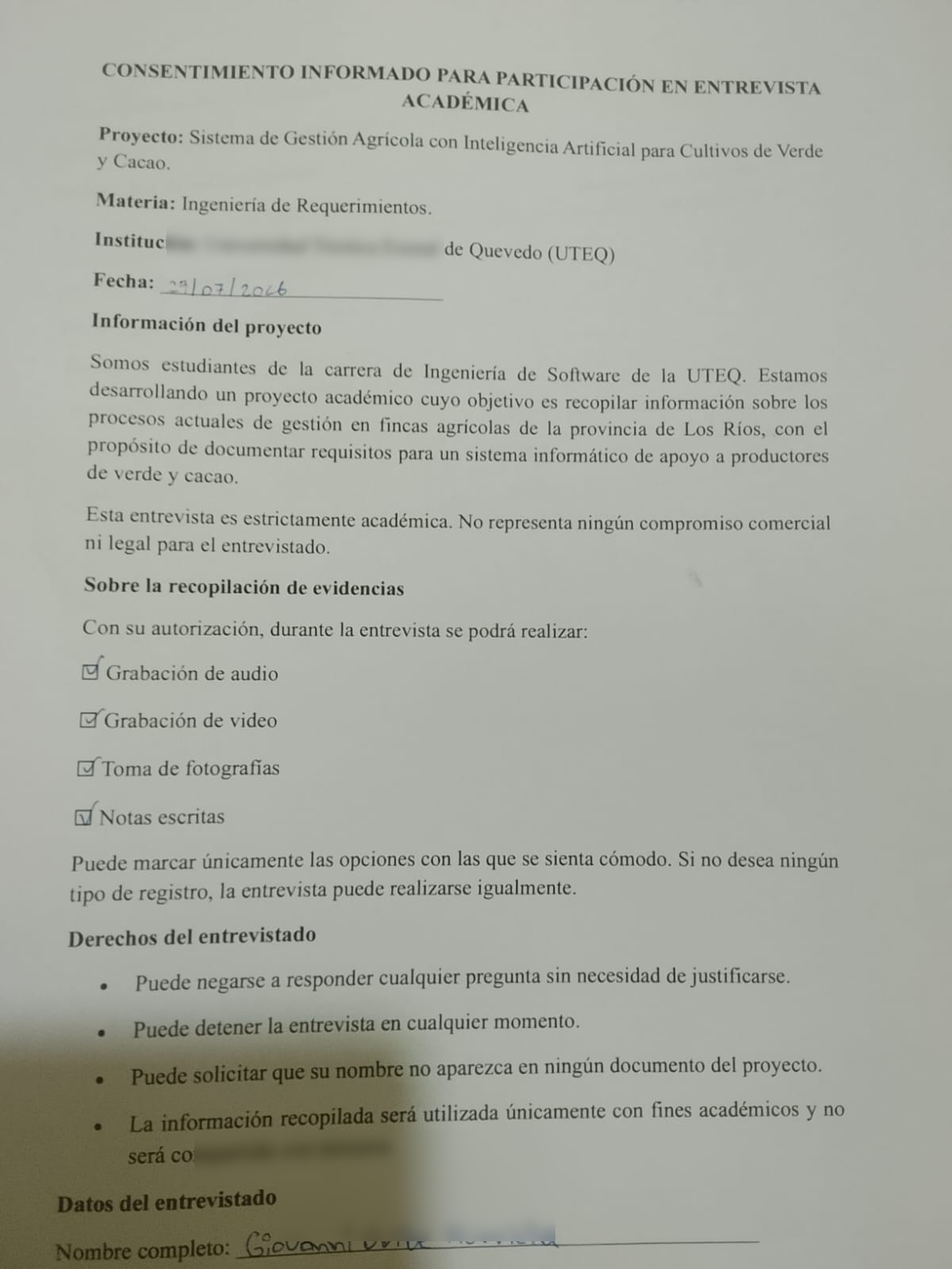
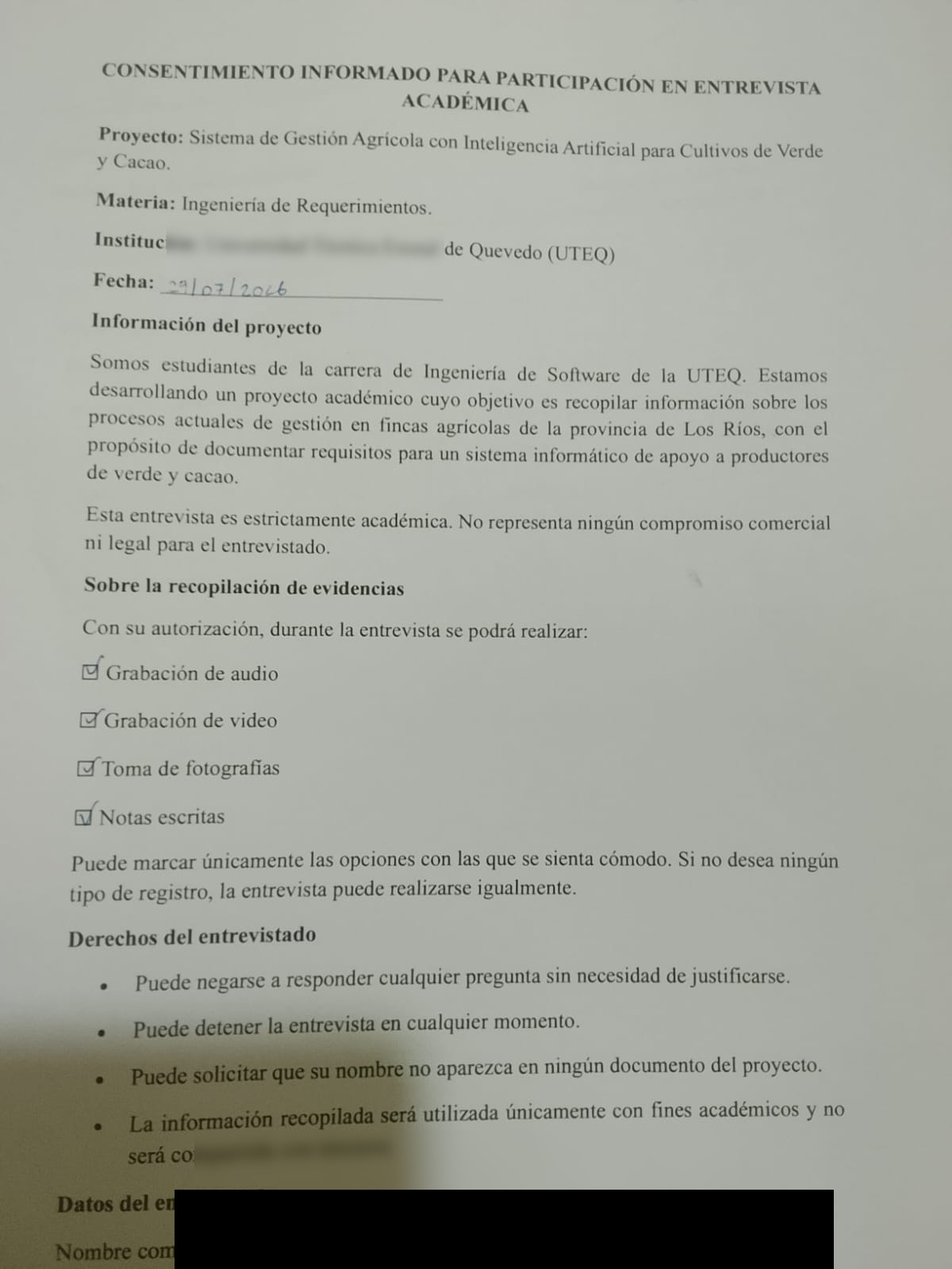
fix: redacta consentimientos con caja opaca (antes insuficiente en ENTR-02/05/08/16) y corrige 16->17 entrevistas en manuscrito y ERS

Changed region(s): [[0.185, 0.9375, 0.8942, 1.0]]

diff --git a/01_ERS/ERS_SRS_2B_v2.0.tex b/01_ERS/ERS_SRS_2B_v2.0.tex
@@ -91,7 +91,7 @@
 \addlinespace
 1.3 & 1 de septiembre de 2026 & Definicion del enfoque legal-first como enfoque oficial del proyecto. & Equipo AgroMoreira \\
 \addlinespace
-2.0 & 1 de septiembre de 2026 & Cierre de la Seccion 3 con los 39 requisitos funcionales y los 21 no funcionales obtenidos en las 16 entrevistas y las 9 sesiones de validacion, y de las historias de usuario con criterios de aceptacion para los 17 requisitos Must have. Cierre del modelado del sistema en la Seccion 4. Matriz de trazabilidad cerrada en 60 filas y Seccion 6 con el producto minimo viable funcional. & Equipo AgroMoreira \\
+2.0 & 1 de septiembre de 2026 & Cierre de la Seccion 3 con los 39 requisitos funcionales y los 21 no funcionales obtenidos en las 17 entrevistas y las 9 sesiones de validacion, y de las historias de usuario con criterios de aceptacion para los 17 requisitos Must have. Cierre del modelado del sistema en la Seccion 4. Matriz de trazabilidad cerrada en 60 filas y Seccion 6 con el producto minimo viable funcional. & Equipo AgroMoreira \\
 \bottomrule
 \end{longtable}
 
@@ -105,7 +105,7 @@ Este documento especifica los requisitos funcionales y no funcionales del Sistem
 
 \subsection{Alcance}
 
-El sistema cubre la centralizacion del registro de parcelas, cultivos y variedades, el registro de actividades agricolas y cosechas, la gestion del inventario de insumos, la asignacion y el seguimiento de tareas, la generacion de reportes de produccion y costos, y un modulo de alertas de plagas asistido por inteligencia artificial que siempre requiere confirmacion humana antes de aplicarse a un lote. Tambien cubre los requisitos de cumplimiento legal derivados del modelo de proteccion de datos y de la normativa agroindustrial ecuatoriana. El alcance definitivo se fijo tras las 16 entrevistas y las 9 sesiones de validacion descritas en la Seccion 3, y ya fue confirmado con el administrador Raul Moreira Alay.
+El sistema cubre la centralizacion del registro de parcelas, cultivos y variedades, el registro de actividades agricolas y cosechas, la gestion del inventario de insumos, la asignacion y el seguimiento de tareas, la generacion de reportes de produccion y costos, y un modulo de alertas de plagas asistido por inteligencia artificial que siempre requiere confirmacion humana antes de aplicarse a un lote. Tambien cubre los requisitos de cumplimiento legal derivados del modelo de proteccion de datos y de la normativa agroindustrial ecuatoriana. El alcance definitivo se fijo tras las 17 entrevistas y las 9 sesiones de validacion descritas en la Seccion 3, y ya fue confirmado con el administrador Raul Moreira Alay.
 
 \subsection{Glosario de terminos}
 
@@ -230,13 +230,13 @@ Art. 20 & Derecho a no ser objeto de una decision basada unica o parcialmente en
 
 \subsection{Supuestos y dependencias}
 
-Se confirmo que Agricola Moreira cuenta con dispositivos moviles y computadores disponibles para el personal tecnico y administrativo. La colaboracion del personal de campo, inicialmente asumida como voluntaria, quedo confirmada con la realizacion de las 16 entrevistas y las 9 sesiones de validacion descritas en la Seccion 3.
+Se confirmo que Agricola Moreira cuenta con dispositivos moviles y computadores disponibles para el personal tecnico y administrativo. La colaboracion del personal de campo, inicialmente asumida como voluntaria, quedo confirmada con la realizacion de las 17 entrevistas y las 9 sesiones de validacion descritas en la Seccion 3.
 
 \section{Requisitos especificos}
 
-Esta seccion reune los 39 requisitos funcionales y los 21 requisitos no funcionales del sistema, obtenidos de las 16 entrevistas semiestructuradas y de las 9 sesiones de validacion con walkthrough, 4 con perfiles tecnicos y 5 con perfiles no tecnicos. De los 39 requisitos funcionales, 31 cuentan con evidencia directa de entrevista y 8 se derivaron directamente de los 26 criterios de cumplimiento legal descritos en \ruta{Modelo\_Legal\_LOPDP.md}, en sus tres bloques normativos.
+Esta seccion reune los 39 requisitos funcionales y los 21 requisitos no funcionales del sistema, obtenidos de las 17 entrevistas semiestructuradas y de las 9 sesiones de validacion con walkthrough, 4 con perfiles tecnicos y 5 con perfiles no tecnicos. De los 39 requisitos funcionales, 31 cuentan con evidencia directa de entrevista y 8 se derivaron directamente de los 26 criterios de cumplimiento legal descritos en \ruta{Modelo\_Legal\_LOPDP.md}, en sus tres bloques normativos.
 
-Cada entrevista tiene asignado un codigo de evidencia. EV-01 corresponde a ENTR-01, administrador. EV-02 a ENTR-02, jornalero. EV-03 a ENTR-03, jornalera. EV-04 a ENTR-04, trabajador. EV-05 y EV-06 a ENTR-05 y ENTR-06, tecnicos. EV-07 a ENTR-07, tecnico, en sesion de walkthrough. EV-08 a ENTR-08, jornalera, en sesion de walkthrough. EV-09 a ENTR-09, jornalero. EV-10 a ENTR-10, tecnico, en sesion de walkthrough. EV-11 y EV-12 a ENTR-11 y ENTR-12, jornaleros, en sesion de walkthrough. EV-13 y EV-14 a ENTR-13 y ENTR-14, jornaleros. EV-15 a ENTR-15, jornalero, en sesion de walkthrough. EV-16 a ENTR-16, tecnica, en sesion de walkthrough. EV-17 a ENTR-17, tecnico. Las 16 personas entrevistadas son distintas entre si, aunque algunas comparten nombre de pila.
+Cada entrevista tiene asignado un codigo de evidencia. EV-01 corresponde a ENTR-01, administrador. EV-02 a ENTR-02, jornalero. EV-03 a ENTR-03, jornalera. EV-04 a ENTR-04, trabajador. EV-05 y EV-06 a ENTR-05 y ENTR-06, tecnicos. EV-07 a ENTR-07, tecnico, en sesion de walkthrough. EV-08 a ENTR-08, jornalera, en sesion de walkthrough. EV-09 a ENTR-09, jornalero. EV-10 a ENTR-10, tecnico, en sesion de walkthrough. EV-11 y EV-12 a ENTR-11 y ENTR-12, jornaleros, en sesion de walkthrough. EV-13 y EV-14 a ENTR-13 y ENTR-14, jornaleros. EV-15 a ENTR-15, jornalero, en sesion de walkthrough. EV-16 a ENTR-16, tecnica, en sesion de walkthrough. EV-17 a ENTR-17, tecnico. Las 17 personas entrevistadas son distintas entre si, aunque algunas comparten nombre de pila.
 
 \subsection{Requisitos funcionales con evidencia de entrevista}
 
@@ -958,7 +958,7 @@ Cada entrevista tiene asignado un codigo de evidencia. EV-01 corresponde a ENTR-
 
 \subsection{Requisitos legales derivados}
 
-Estos requisitos se derivan directamente de los 26 criterios, C1 a C26, de \ruta{Modelo\_Legal\_LOPDP.md}, en sus tres bloques normativos. Ninguna de las 16 entrevistas menciono el proceso de certificacion BPA, el derecho de acceso o rectificacion de datos personales, el aviso fitosanitario formal ni el registro de capacitaciones, asi que siguen siendo vacios legales puros. El equipo de proteccion personal y el analisis de suelo si encontraron respaldo parcial en EV-17, ver RF-18 y RF-35, pero el certificado de salud del trabajador continua sin evidencia de entrevista.
+Estos requisitos se derivan directamente de los 26 criterios, C1 a C26, de \ruta{Modelo\_Legal\_LOPDP.md}, en sus tres bloques normativos. Ninguna de las 17 entrevistas menciono el proceso de certificacion BPA, el derecho de acceso o rectificacion de datos personales, el aviso fitosanitario formal ni el registro de capacitaciones, asi que siguen siendo vacios legales puros. El equipo de proteccion personal y el analisis de suelo si encontraron respaldo parcial en EV-17, ver RF-18 y RF-35, pero el certificado de salud del trabajador continua sin evidencia de entrevista.
 
 \rf{RF-22}{Registro de consentimiento del trabajador para el tratamiento de sus datos personales}
 \begin{itemize}
@@ -1417,7 +1417,7 @@ El diagrama de despliegue completo, con el dispositivo cliente, el servidor de a
 
 \section{Priorizacion y trazabilidad}
 
-Los 39 requisitos funcionales cuentan con su prioridad MoSCoW asignada dentro de cada ficha de la Seccion 3. Sobre esa base, el equipo completo realizo el 1 de septiembre de 2026 una sesion de priorizacion complementaria con el modelo de Kano y el metodo WSJF, del marco agil SAFe. La clasificacion Kano de cada requisito, en basico, de desempeno, atractivo o indiferente, se definio por consenso del equipo a partir de la evidencia cualitativa recogida en las 16 entrevistas y no de una encuesta Kano formal aplicada a los participantes, ya que esa encuesta especifica no formo parte del instrumento de campo. Para el WSJF, el equipo asigno a cada requisito cuatro valores del 1 al 10, valor de negocio, urgencia, reduccion de riesgo u oportunidad, y tamano del esfuerzo, y el puntaje final se calculo como la suma de los tres primeros valores dividida entre el tamano del esfuerzo.
+Los 39 requisitos funcionales cuentan con su prioridad MoSCoW asignada dentro de cada ficha de la Seccion 3. Sobre esa base, el equipo completo realizo el 1 de septiembre de 2026 una sesion de priorizacion complementaria con el modelo de Kano y el metodo WSJF, del marco agil SAFe. La clasificacion Kano de cada requisito, en basico, de desempeno, atractivo o indiferente, se definio por consenso del equipo a partir de la evidencia cualitativa recogida en las 17 entrevistas y no de una encuesta Kano formal aplicada a los participantes, ya que esa encuesta especifica no formo parte del instrumento de campo. Para el WSJF, el equipo asigno a cada requisito cuatro valores del 1 al 10, valor de negocio, urgencia, reduccion de riesgo u oportunidad, y tamano del esfuerzo, y el puntaje final se calculo como la suma de los tres primeros valores dividida entre el tamano del esfuerzo.
 
 El resultado completo, con los 39 requisitos y su ranking final, se documenta en \ruta{priorizacion\_moscow\_kano.csv}. Los diez requisitos de mayor prioridad segun este metodo son los siguientes.
 

diff --git a/07_Publicacion/manuscrito_final.tex b/07_Publicacion/manuscrito_final.tex
@@ -27,7 +27,7 @@
 
 \affil*[1]{\orgdiv{Facultad de Ciencias de la Computaci\'on}, \orgname{Universidad T\'ecnica Estatal de Quevedo}, \city{Quevedo}, \country{Ecuador}}
 
-\abstract{Los requisitos legales de protecci\'on de datos y de trazabilidad agroindustrial suelen quedar insuficientemente cubiertos cuando la elicitaci\'on se apoya solo en m\'etodos convencionales, entrevistas y observaci\'on, en especial en dominios agroindustriales de pa\'ises en desarrollo donde ese marco legal es reciente. Este estudio investiga qu\'e requisitos legales de la Ley Org\'anica de Protecci\'on de Datos Personales del Ecuador y de la normativa de trazabilidad agroindustrial no quedan cubiertos por los requisitos funcionales elicitados con m\'etodos convencionales, y c\'omo el enfoque legal-first de Amaral et al., que deriva requisitos de forma sistem\'atica a partir de un modelo conceptual del texto legal, extiende esa cobertura. Mediante un estudio de caso en Agr\'icola Moreira, una finca ecuatoriana de policultivo de pl\'atano verde y cacao, se construy\'o un modelo conceptual de cumplimiento legal con 26 criterios verificables en tres bloques normativos, la Ley Org\'anica de Protecci\'on de Datos Personales, la Resoluci\'on 183 de AGROCALIDAD sobre buenas pr\'acticas y trazabilidad del cacao y la Resoluci\'on 0072 sobre bioseguridad y manejo fitosanitario. Se evalu\'o su cobertura por los 39 requisitos funcionales y 21 no funcionales elicitados mediante 16 entrevistas y 9 sesiones de validaci\'on, y se aplic\'o el m\'etodo legal-first para derivar ocho requisitos adicionales directamente del texto legal. La cobertura convencional cubri\'o 7 de los 26 criterios (26,9\,\%) y subi\'o a 25 de 26 (96,2\,\%) tras aplicar el enfoque legal-first, una diferencia de 69,2 puntos porcentuales (IC 95\,\% bootstrap [50,0\,\%, 84,6\,\%]) estad\'isticamente significativa seg\'un la prueba de McNemar con correcci\'on de continuidad ($\chi^2=16,06$, $p=0,0001$), sin que ning\'un criterio perdiera cobertura.}
+\abstract{Los requisitos legales de protecci\'on de datos y de trazabilidad agroindustrial suelen quedar insuficientemente cubiertos cuando la elicitaci\'on se apoya solo en m\'etodos convencionales, entrevistas y observaci\'on, en especial en dominios agroindustriales de pa\'ises en desarrollo donde ese marco legal es reciente. Este estudio investiga qu\'e requisitos legales de la Ley Org\'anica de Protecci\'on de Datos Personales del Ecuador y de la normativa de trazabilidad agroindustrial no quedan cubiertos por los requisitos funcionales elicitados con m\'etodos convencionales, y c\'omo el enfoque legal-first de Amaral et al., que deriva requisitos de forma sistem\'atica a partir de un modelo conceptual del texto legal, extiende esa cobertura. Mediante un estudio de caso en Agr\'icola Moreira, una finca ecuatoriana de policultivo de pl\'atano verde y cacao, se construy\'o un modelo conceptual de cumplimiento legal con 26 criterios verificables en tres bloques normativos, la Ley Org\'anica de Protecci\'on de Datos Personales, la Resoluci\'on 183 de AGROCALIDAD sobre buenas pr\'acticas y trazabilidad del cacao y la Resoluci\'on 0072 sobre bioseguridad y manejo fitosanitario. Se evalu\'o su cobertura por los 39 requisitos funcionales y 21 no funcionales elicitados mediante 17 entrevistas y 9 sesiones de validaci\'on, y se aplic\'o el m\'etodo legal-first para derivar ocho requisitos adicionales directamente del texto legal. La cobertura convencional cubri\'o 7 de los 26 criterios (26,9\,\%) y subi\'o a 25 de 26 (96,2\,\%) tras aplicar el enfoque legal-first, una diferencia de 69,2 puntos porcentuales (IC 95\,\% bootstrap [50,0\,\%, 84,6\,\%]) estad\'isticamente significativa seg\'un la prueba de McNemar con correcci\'on de continuidad ($\chi^2=16,06$, $p=0,0001$), sin que ning\'un criterio perdiera cobertura.}
 
 \keywords{Legal requirements, Traceability, Cacao industry, Data protection law, Requirements coverage}
 
@@ -108,7 +108,7 @@ Para cada criterio se eval\'ua la cobertura, como variable binaria de cubierto o
 
 \subsection{Participantes y reclutamiento}
 
-La recolecci\'on de datos de campo combina 16 entrevistas semiestructuradas con personas distintas y 9 sesiones de validaci\'on con walkthrough, 4 con perfiles t\'ecnicos y 5 con perfiles no t\'ecnicos, y un cuestionario dirigido a al menos 60 respuestas por perfil dominante. El consentimiento informado se obtuvo conforme a la Ley Org\'anica de Protecci\'on de Datos Personales del Ecuador \cite{lopdp2021}. La regla de decisi\'on para marcar un criterio como cubierto se document\'o por escrito antes de evaluar, y la asignaci\'on se contrasta con al menos un segundo revisor independiente.
+La recolecci\'on de datos de campo combina 17 entrevistas semiestructuradas con personas distintas y 9 sesiones de validaci\'on con walkthrough, 4 con perfiles t\'ecnicos y 5 con perfiles no t\'ecnicos, y un cuestionario dirigido a al menos 60 respuestas por perfil dominante. El consentimiento informado se obtuvo conforme a la Ley Org\'anica de Protecci\'on de Datos Personales del Ecuador \cite{lopdp2021}. La regla de decisi\'on para marcar un criterio como cubierto se document\'o por escrito antes de evaluar, y la asignaci\'on se contrasta con al menos un segundo revisor independiente.
 
 \subsection{Modelo de cumplimiento legal y m\'etodo legal-first}
 
@@ -120,7 +120,7 @@ El plan de an\'alisis se registra en OSF \cite{nosek2018} antes de evaluar forma
 
 \section{Resultados}\label{sec:resultados}
 
-El an\'alisis de cobertura se ejecuta con \texttt{07\_Datos/scripts/analisis\_legalfirst.py} sobre los 26 criterios legales de \texttt{07\_Datos/datos\_crudos/cobertura\_legal.csv}, con la salida verificada en \texttt{07\_Datos/resultados/tabla\_mcnemar.csv} y \texttt{07\_Datos/resultados/descriptivos\_bloque.csv}, evaluados en dos momentos: antes de aplicar el m\'etodo legal-first, con los requisitos elicitados mediante las 16 entrevistas y las 9 sesiones de validaci\'on, y despu\'es, tras derivar directamente del texto legal los ocho requisitos adicionales RF-22, RF-23, RF-24, RF-25, RF-36, RF-37, RF-38 y RF-39.
+El an\'alisis de cobertura se ejecuta con \texttt{07\_Datos/scripts/analisis\_legalfirst.py} sobre los 26 criterios legales de \texttt{07\_Datos/datos\_crudos/cobertura\_legal.csv}, con la salida verificada en \texttt{07\_Datos/resultados/tabla\_mcnemar.csv} y \texttt{07\_Datos/resultados/descriptivos\_bloque.csv}, evaluados en dos momentos: antes de aplicar el m\'etodo legal-first, con los requisitos elicitados mediante las 17 entrevistas y las 9 sesiones de validaci\'on, y despu\'es, tras derivar directamente del texto legal los ocho requisitos adicionales RF-22, RF-23, RF-24, RF-25, RF-36, RF-37, RF-38 y RF-39.
 
 \subsection{Cobertura global}
 

diff --git a/01_ERS/ERS_SRS_2B_v2.0.md b/01_ERS/ERS_SRS_2B_v2.0.md
@@ -17,7 +17,7 @@
 | 1.1 | 31 de agosto de 2026 | Corrección del equipo y del enfoque metodológico a partir del expediente ético real | Equipo AgroMoreira |
 | 1.2 | 1 de septiembre de 2026 | Corrección del liderazgo del equipo | Equipo AgroMoreira |
 | 1.3 | 1 de septiembre de 2026 | Definición del enfoque legal-first como enfoque oficial del proyecto | Equipo AgroMoreira |
-| 2.0 | 1 de septiembre de 2026 | Cierre de la Sección 3 con los 39 requisitos funcionales y los 21 requisitos no funcionales obtenidos en las 16 entrevistas y las 9 sesiones de validación, y de las historias de usuario con criterios de aceptación para los 17 requisitos Must have. Cierre del modelado del sistema en la Sección 4, con los 14 casos de uso, los dos diagramas de clases, los diagramas de comportamiento, la arquitectura de componentes y los 9 mockups de `03_Modelado/`. Matriz de trazabilidad cerrada en 60 filas y Sección 6 con el producto mínimo viable funcional | Equipo AgroMoreira |
+| 2.0 | 1 de septiembre de 2026 | Cierre de la Sección 3 con los 39 requisitos funcionales y los 21 requisitos no funcionales obtenidos en las 17 entrevistas y las 9 sesiones de validación, y de las historias de usuario con criterios de aceptación para los 17 requisitos Must have. Cierre del modelado del sistema en la Sección 4, con los 14 casos de uso, los dos diagramas de clases, los diagramas de comportamiento, la arquitectura de componentes y los 9 mockups de `03_Modelado/`. Matriz de trazabilidad cerrada en 60 filas y Sección 6 con el producto mínimo viable funcional | Equipo AgroMoreira |
 
 ---
 
@@ -29,7 +29,7 @@ Este documento especifica los requisitos funcionales y no funcionales del Sistem
 
 ### 1.2 Alcance
 
-El sistema cubre la centralización del registro de parcelas, cultivos y variedades, el registro de actividades agrícolas y cosechas, la gestión del inventario de insumos, la asignación y el seguimiento de tareas, la generación de reportes de producción y costos, y un módulo de alertas de plagas asistido por inteligencia artificial que siempre requiere confirmación humana antes de aplicarse a un lote. También cubre los requisitos de cumplimiento legal derivados del modelo de protección de datos y de la normativa agroindustrial ecuatoriana. El alcance definitivo se fijó tras las 16 entrevistas y las 9 sesiones de validación descritas en la Sección 3, y ya fue confirmado con el administrador Raúl Moreira Alay.
+El sistema cubre la centralización del registro de parcelas, cultivos y variedades, el registro de actividades agrícolas y cosechas, la gestión del inventario de insumos, la asignación y el seguimiento de tareas, la generación de reportes de producción y costos, y un módulo de alertas de plagas asistido por inteligencia artificial que siempre requiere confirmación humana antes de aplicarse a un lote. También cubre los requisitos de cumplimiento legal derivados del modelo de protección de datos y de la normativa agroindustrial ecuatoriana. El alcance definitivo se fijó tras las 17 entrevistas y las 9 sesiones de validación descritas en la Sección 3, y ya fue confirmado con el administrador Raúl Moreira Alay.
 
 ### 1.3 Glosario de términos
 
@@ -128,14 +128,14 @@ Fuente legal verificada. Registro Oficial, Quinto Suplemento N.º 459, del 26 de
 
 ### 2.8 Supuestos y dependencias
 
-Se confirmó que Agrícola Moreira cuenta con dispositivos móviles y computadores disponibles para el personal técnico y administrativo. La colaboración del personal de campo, inicialmente asumida como voluntaria, quedó confirmada con la realización de las 16 entrevistas y las 9 sesiones de validación descritas en la Sección 3.
+Se confirmó que Agrícola Moreira cuenta con dispositivos móviles y computadores disponibles para el personal técnico y administrativo. La colaboración del personal de campo, inicialmente asumida como voluntaria, quedó confirmada con la realización de las 17 entrevistas y las 9 sesiones de validación descritas en la Sección 3.
 
 ---
 ## 3. Requisitos específicos
 
-Esta sección reúne los 39 requisitos funcionales y los 21 requisitos no funcionales del sistema, obtenidos de las 16 entrevistas semiestructuradas y de las 9 sesiones de validación con walkthrough, 4 con perfiles técnicos y 5 con perfiles no técnicos. De los 39 requisitos funcionales, 31 cuentan con evidencia directa de entrevista y 8 se derivaron directamente de los 26 criterios de cumplimiento legal descritos en `Modelo_Legal_LOPDP.md`, en sus tres bloques normativos, la Ley Orgánica de Protección de Datos Personales, la Resolución 183 de AGROCALIDAD sobre buenas prácticas y trazabilidad del cacao, y la Resolución 0072 sobre bioseguridad y manejo fitosanitario.
+Esta sección reúne los 39 requisitos funcionales y los 21 requisitos no funcionales del sistema, obtenidos de las 17 entrevistas semiestructuradas y de las 9 sesiones de validación con walkthrough, 4 con perfiles técnicos y 5 con perfiles no técnicos. De los 39 requisitos funcionales, 31 cuentan con evidencia directa de entrevista y 8 se derivaron directamente de los 26 criterios de cumplimiento legal descritos en `Modelo_Legal_LOPDP.md`, en sus tres bloques normativos, la Ley Orgánica de Protección de Datos Personales, la Resolución 183 de AGROCALIDAD sobre buenas prácticas y trazabilidad del cacao, y la Resolución 0072 sobre bioseguridad y manejo fitosanitario.
 
-Cada entrevista tiene asignado un código de evidencia. EV-01 corresponde a ENTR-01, administrador. EV-02 a ENTR-02, jornalero. EV-03 a ENTR-03, jornalera. EV-04 a ENTR-04, trabajador. EV-05 y EV-06 a ENTR-05 y ENTR-06, técnicos. EV-07 a ENTR-07, técnico, en sesión de walkthrough. EV-08 a ENTR-08, jornalera, en sesión de walkthrough. EV-09 a ENTR-09, jornalero. EV-10 a ENTR-10, técnico, en sesión de walkthrough. EV-11 y EV-12 a ENTR-11 y ENTR-12, jornaleros, en sesión de walkthrough. EV-13 y EV-14 a ENTR-13 y ENTR-14, jornaleros. EV-15 a ENTR-15, jornalero, en sesión de walkthrough. EV-16 a ENTR-16, técnica, en sesión de walkthrough. EV-17 a ENTR-17, técnico. Las 16 personas entrevistadas son distintas entre sí, aunque algunas comparten nombre de pila.
+Cada entrevista tiene asignado un código de evidencia. EV-01 corresponde a ENTR-01, administrador. EV-02 a ENTR-02, jornalero. EV-03 a ENTR-03, jornalera. EV-04 a ENTR-04, trabajador. EV-05 y EV-06 a ENTR-05 y ENTR-06, técnicos. EV-07 a ENTR-07, técnico, en sesión de walkthrough. EV-08 a ENTR-08, jornalera, en sesión de walkthrough. EV-09 a ENTR-09, jornalero. EV-10 a ENTR-10, técnico, en sesión de walkthrough. EV-11 y EV-12 a ENTR-11 y ENTR-12, jornaleros, en sesión de walkthrough. EV-13 y EV-14 a ENTR-13 y ENTR-14, jornaleros. EV-15 a ENTR-15, jornalero, en sesión de walkthrough. EV-16 a ENTR-16, técnica, en sesión de walkthrough. EV-17 a ENTR-17, técnico. Las 17 personas entrevistadas son distintas entre sí, aunque algunas comparten nombre de pila.
 
 ### 3.1 Requisitos funcionales con evidencia de entrevista
 
@@ -677,7 +677,7 @@ Cada entrevista tiene asignado un código de evidencia. EV-01 corresponde a ENTR
 
 ### 3.2 Requisitos legales derivados
 
-> Estos RF se derivan directamente de los 26 criterios (C1 a C26) de `Modelo_Legal_LOPDP.md`, en sus 3 bloques normativos (LOPDP, BPA cacao/trazabilidad, bioseguridad y manejo fitosanitario). Ninguna de las 16 entrevistas mencionó el proceso de certificación BPA, el derecho de acceso/rectificación de datos personales, el aviso fitosanitario formal, ni el registro de capacitaciones, así que siguen siendo vacíos legales puros. La parte de equipo de protección personal de RF-24 y el análisis de suelo sí encontraron respaldo parcial en EV-17 (ver RF-18 y RF-35), pero el certificado de salud del trabajador continúa sin evidencia de entrevista.
+> Estos RF se derivan directamente de los 26 criterios (C1 a C26) de `Modelo_Legal_LOPDP.md`, en sus 3 bloques normativos (LOPDP, BPA cacao/trazabilidad, bioseguridad y manejo fitosanitario). Ninguna de las 17 entrevistas mencionó el proceso de certificación BPA, el derecho de acceso/rectificación de datos personales, el aviso fitosanitario formal, ni el registro de capacitaciones, así que siguen siendo vacíos legales puros. La parte de equipo de protección personal de RF-24 y el análisis de suelo sí encontraron respaldo parcial en EV-17 (ver RF-18 y RF-35), pero el certificado de salud del trabajador continúa sin evidencia de entrevista.
 
 ### RF-22. Registro de consentimiento del trabajador para el tratamiento de sus datos personales dentro del sistema
 - **Actor/origen:** Administrador. Sin evidencia de entrevista (criterio C4, LOPDP Art. 8)
@@ -1022,7 +1022,7 @@ El backend expone la lógica de negocio a través de una API REST y la base de d
 
 ## 5. Priorización y trazabilidad
 
-Los 39 requisitos funcionales cuentan con su prioridad MoSCoW asignada dentro de cada ficha de la Sección 3. Sobre esa base, el equipo completo realizó el 1 de septiembre de 2026 una sesión de priorización complementaria con el modelo de Kano y el método WSJF, del marco ágil SAFe. La clasificación Kano de cada requisito, en básico, de desempeño, atractivo o indiferente, se definió por consenso del equipo a partir de la evidencia cualitativa recogida en las 16 entrevistas y no de una encuesta Kano formal aplicada a los participantes, ya que esa encuesta específica no formó parte del instrumento de campo. Para el WSJF, el equipo asignó a cada requisito cuatro valores del 1 al 10, valor de negocio, urgencia, reducción de riesgo u oportunidad, y tamaño del esfuerzo, y el puntaje final se calculó como la suma de los tres primeros valores dividida entre el tamaño del esfuerzo.
+Los 39 requisitos funcionales cuentan con su prioridad MoSCoW asignada dentro de cada ficha de la Sección 3. Sobre esa base, el equipo completo realizó el 1 de septiembre de 2026 una sesión de priorización complementaria con el modelo de Kano y el método WSJF, del marco ágil SAFe. La clasificación Kano de cada requisito, en básico, de desempeño, atractivo o indiferente, se definió por consenso del equipo a partir de la evidencia cualitativa recogida en las 17 entrevistas y no de una encuesta Kano formal aplicada a los participantes, ya que esa encuesta específica no formó parte del instrumento de campo. Para el WSJF, el equipo asignó a cada requisito cuatro valores del 1 al 10, valor de negocio, urgencia, reducción de riesgo u oportunidad, y tamaño del esfuerzo, y el puntaje final se calculó como la suma de los tres primeros valores dividida entre el tamaño del esfuerzo.
 
 El resultado completo, con los 39 requisitos y su ranking final, se documenta en `priorizacion_moscow_kano.csv`. Los diez requisitos de mayor prioridad según este método son los siguientes.
 

diff --git a/01_ERS/Modelo_Legal_LOPDP.md b/01_ERS/Modelo_Legal_LOPDP.md
@@ -75,7 +75,7 @@ a 36, 37 a 46, 48 a 51 y 55 a 60.
 
 Los 13 criterios se evaluaron contra el conjunto de 39 requisitos funcionales y 15
 no funcionales de la Sección 3 del ERS. Ninguno de los 13 tenía cobertura por la
-elicitación convencional, ya que ninguna de las 16 entrevistas trató el
+elicitación convencional, ya que ninguna de las 17 entrevistas trató el
 tratamiento de datos personales del sistema. Los vacíos se cerraron con los
 requisitos derivados RF-22, consentimiento del trabajador, RF-23, derechos
 ARCO+, RNF-08, consentimiento explícito en el primer inicio de sesión, y RNF-09,
@@ -187,5 +187,5 @@ Al evaluar los 6 criterios contra el conjunto de requisitos elicitados, dos ya
 tenían cobertura por evidencia de entrevista, el análisis de suelo, C21, cubierto
 por RF-35 con evidencia EV-17, y el equipo de protección personal, C22, cubierto
 por RF-18 con evidencia EV-17 y EV-11. Los otros cuatro, C23 a C26, eran vacíos
-legales sin ninguna mención en las 16 entrevistas y se cerraron con los
+legales sin ninguna mención en las 17 entrevistas y se cerraron con los
 requisitos derivados RF-36 a RF-39 de la Sección 3 del ERS.
